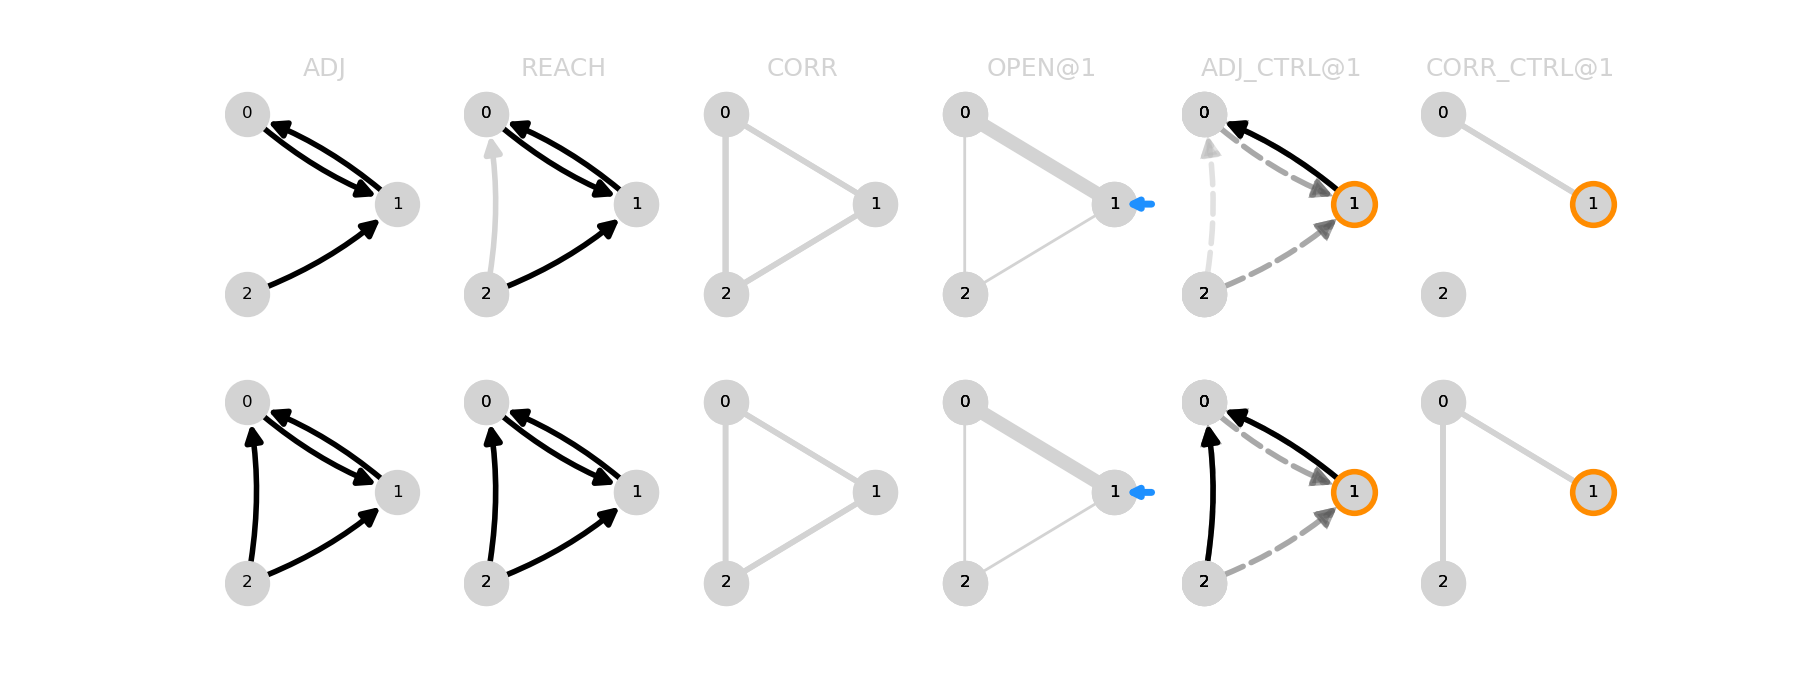
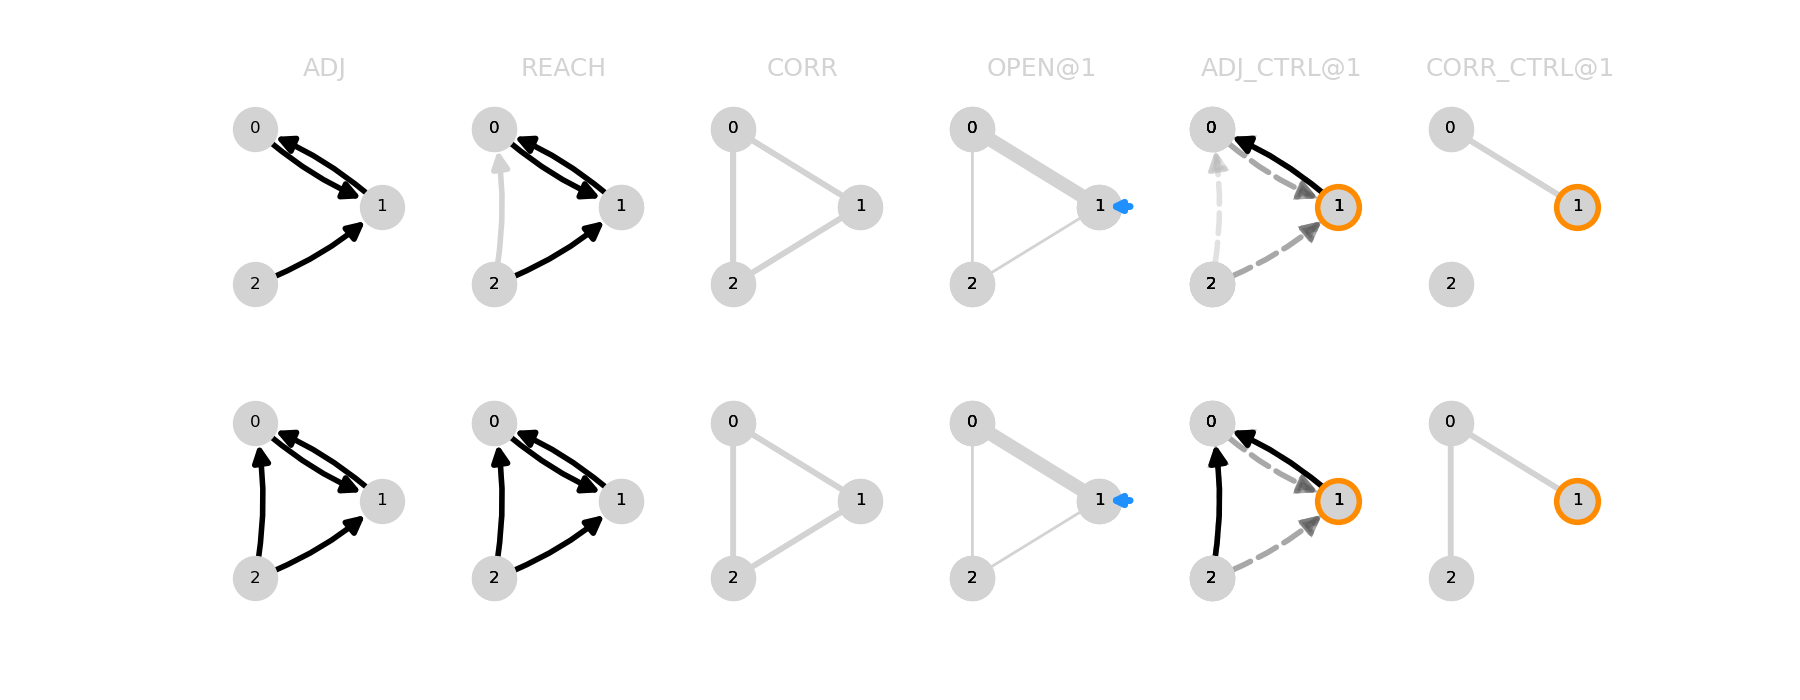
[plot][snapshot] refactored, simplified fig_circuit_walkthrough

diff --git a/code/network_analysis/fig_circuit_walkthrough.py b/code/network_analysis/fig_circuit_walkthrough.py
@@ -13,21 +13,18 @@ import network_analysis_functions as net
 import coreachability_source_classification as coreach
 #%%
 '''
+- [ ] I'm annoyed at how networkx (via matplotlib) handles arrow styles 
+    - can't have dotted arrows without arrowheads 
+    - have to redraw 
+    - proposed solution: look at draw_np_adj, switch to draw_networkx_edges() 
+        - to see if this gives us more control 
+    - proposed solution: switch everything to plotly https://plotly.com/python/network-graphs/
 - [ ] compartmentalize plotting for easier composition
-    - single correlation 
-        draw_correlations(adj_ctrls[i], Corr=corr_ctrls[i],
-            ax=_ax, grey_correlations=True)
-        indicate_ctrl(_ax, pos[i],color='#b4a390')
-    - severed adj 
-        #overlay unmodified & modified adj
-        draw_np_adj(adj,          ax=_ax0, more_options=severed_edge_style)
-        draw_np_adj(adj_ctrls[i], ax=_ax0)
-        indicate_ctrl(_ax0, pos[i])
-        indicate_ctrl(_ax1, pos[i])
-    - weighted correlation (from open-loop)
-    
-- ( ) improve size of OL indication 
-- [ ] pull circuit from egcirc 
+- ( ) ideally this script should expose computing all the derived matrices separately from plotting them 
+- [ ] wrap circuits we want in / pull from `example_circuits.py`
+    - [ ] find and include frequent circuit (curto + motif)
+- [ ] alt method of displaying indirect paths?
+  - https://networkx.org/documentation/stable/reference/algorithms/generated/networkx.algorithms.simple_paths.all_simple_paths.html#networkx.algorithms.simple_paths.all_simple_paths
 
 
 | adj   | reach     | corr    | OL @ mid | CL @ mid |
@@ -39,144 +36,35 @@ A = np.array([[0, .1, 0],
               [1, 0,  0],
               [1, 4,  0]])
               
-
 A0 = np.array([[0, 1, 0],
               [1, 0,  0],
               [0, 1,  0]])
+              
 A1 = np.array([[0, 1, 0],
               [1, 0,  0],
-              [1, 1,  0]])                           
+              [1, 1,  0]])                    
+                     
 A2 = np.array([[0, 1, 0],
               [0, 0,  0],
               [1, 1,  0]])
-# rA = net.reachability(A);
-# rwA = net.reachability_weight(A);
-# corrA = net.binary_correlations(A)
+
 #%%    
 pos = netplot._gen_layout_from_adj(A)
+
 #%%
-fig, ax = plt.subplots(2,6,figsize=(18,7))
-# adj_ctrls = net.each_closed_loop_adj(A) 
-# corr_ctrls = net.each_closed_loop_correlations(A)
-ax = netplot.draw_controlled_adj_correlations(ax, A)
-# fig
-#%%
-
-# adjs = [A0,A1]
-
-from aenum import Flag, auto
-# see https://github.com/awillats/clinc-gen/blob/main/small_circuit_scripts/circuit_functions/run_PID_ctrl.py 
-# for another usage of Flag, auto
-# some discussion of enum vs aenum here: https://stackoverflow.com/questions/60635855/python-enum-flag-with-one-flag-that-is-used-by-some-others
-def strip_trailing_int(str,delim='@'):
-    return int(str.split(delim)[1])
-
-class NetPlotType(Flag):
-    ADJ = auto() 
-    REACH = auto()
-    CORR = auto() 
-    CTRL = auto()
-    OPEN = auto()
-    ADJ_CTRL = ADJ | CTRL
-    CORR_CTRL = CORR | CTRL
-    REACH_CTRL = REACH | CTRL
-    
-    def __init__(self,flag_val):
-        # Flag.__init__(self) #replace with super?
-        # super(NetPlotType, self).__init__()
-        super().__init__()
-        self.intervention_location=None
-    def set_intervention_location(self, loc):
-    
-        self.intervention_location = loc
-    # 
-    def __repr__(self):
-        r = f'{self.name}'
-        if hasattr(self,'intervention_location') and self.intervention_location is not None:
-            r +=f'@{self.intervention_location}'
-        return r
-    def __str__(self):
-        return self.__repr__()
-
-n = NetPlotType(0)
-
-a=NetPlotType.ADJ
-r=NetPlotType.REACH
-a
-r
-ar = a|r
-print(ar)
-
-print(ar & a)
-print(ar & r)
-
-cc=NetPlotType.CORR_CTRL
-print(cc)
-
-        #%%
-def parse_plot_type(plot_str):
-    plot_str = plot_str.lower()
-    # pt = NetPlotType.DEFAULT
-    pt = NetPlotType(0)
-    
-    if 'adj' in plot_str:
-        pt |= NetPlotType.ADJ
-    if 'reach' in plot_str:
-        pt |= NetPlotType.REACH
-    if 'corr' in plot_str:
-        pt |= NetPlotType.CORR
-    if 'ctrl' in plot_str:
-        pt |= NetPlotType.CTRL
-        pt.set_intervention_location(strip_trailing_int(plot_str))
-        
-    if 'open' in plot_str:
-        pt |= NetPlotType.OPEN
-        pt.set_intervention_location(strip_trailing_int(plot_str))
-        
-    return pt
-# ---- 
-
-def plot_adj_by_plot_type(ax, A, plot_type,add_titles=True):
-    grey=True
-    plot_funs = {
-        NetPlotType(0) : lambda adj,ax,intv_loc: adj*2,
-        NetPlotType.ADJ :   lambda adj,ax,intv_loc: netplot.draw_np_adj(adj,ax=ax),
-        NetPlotType.REACH : lambda adj,ax,intv_loc: netplot.draw_reachability(adj,ax=ax),
-        NetPlotType.CORR :  lambda adj,ax,intv_loc: netplot.draw_correlations(adj,ax=ax,grey_correlations=grey),
-        NetPlotType.ADJ_CTRL :  lambda adj,ax,intv_loc: netplot.__draw_ctrl_adj_at_source(adj=adj,ax=ax,intv_loc=intv_loc),
-        NetPlotType.CORR_CTRL :  lambda adj,ax,intv_loc: netplot.__draw_ctrl_correlations_at_source(adj=adj,ax=ax,intv_loc=intv_loc,grey_correlations=grey),
-        # NetPlotType.REACH_CTRL :  lambda adj,ax,intv_loc: netplot.__draw_coreachability_at_source(adj,ax=ax,intv_loc=intv_loc),
-        # NetPlotType.CTRL :  lambda adj,ax,intv_loc: netplot.__draw_coreachability_at_source(adj,ax=ax,intv_loc=intv_loc),
-        NetPlotType.OPEN :  lambda adj,ax,intv_loc: netplot.__draw_coreachability_at_source(adj,ax=ax,intv_loc=intv_loc,grey_correlations=grey),
-    }
-    this_plot_fun = plot_funs.get(plot_type)
-    
-    # print(f'this_plot_fun:{this_plot_fun}\n for {plot_type}')
-    
-    this_plot_fun(A, ax, plot_type.intervention_location)
-    if add_titles:
-        ax.set_title(str(plot_type),color='lightgrey')
-    else:
-        ax.set_title('')
-        
-    # myplot.expand_bounds(ax)
-    # return ax
-#-----
-
+'''
+can specify what you want in the columns 
+( see network_plotting_functions/parse_plot_type() for )
+'''
 cols = ['adj','reach','corr','open@1','adj ctrl@1','corr ctrl@1']
-plot_types = [parse_plot_type(p) for p in cols]
+plot_types = [netplot.parse_plot_type(p) for p in cols]
 As = [A0,A1]
+
 fig,ax = plt.subplots(len(As),len(cols),figsize=(3*len(cols),3.5*len(As)),sharex=True,sharey=True)
 for j,_A in enumerate(As):
     for i,pt in enumerate(plot_types):    
-        plot_adj_by_plot_type(ax[j][i],_A,pt,add_titles=(j==0))
-myplot.expand_bounds(ax[j][i])
+        netplot.plot_adj_by_plot_type(ax[j][i],_A,pt,add_titles=(j==0))
+myplot.expand_bounds(ax[0][0],1.3)
 
 myplot.savefig(f'results/circuit_walkthrough_{len(As)}circuits.png',this_file='/code/fig_circuit_walkthrough.py')        
-fig
-#%%
-fig,ax = plt.subplots(1,3,figsize=(9,3))
-df = coreach.compute_coreachability_tensor(net.reachability(A))
-# ax = netplot.draw_coreachability_by_source(df,ax,node_position=pos,grey_correlations=True)
-# ax = netplot.__draw_coreachability_by_source(A,ax,grey_correlations=True)
 fig

diff --git a/code/network_analysis/network_plotting_functions.py b/code/network_analysis/network_plotting_functions.py
@@ -9,6 +9,7 @@ import matplotlib.pyplot as plt
 from matplotlib.gridspec import GridSpec
 
 import plotting_functions as myplot
+from aenum import Flag,auto
 #%%
 DEFAULT_NET_PLOT_OPTIONS = {
         'node_color': 'lightgrey',
@@ -32,7 +33,6 @@ def draw_weighted_corr(W, ax=None, min_w=0,max_w=10, more_options={},pos_overrid
     options = DEFAULT_NET_PLOT_OPTIONS.copy()
     options.update({'ax':ax,'pos':pos})
     
-        
     options.update({'width':weights,'node_size':100})
     nx.draw(G, **options)
     ax.set_aspect('equal')
@@ -523,9 +523,83 @@ def plot_empirical_corrs(A,Rw,X, r2_pred,r2_empr,n_plot=1000,node_colors=None):
 
 
 #%%
+def strip_trailing_int(str,delim='@'):
+    return int(str.split(delim)[1])
+# from aenum import Flag, auto
 
+# see https://github.com/awillats/clinc-gen/blob/main/small_circuit_scripts/circuit_functions/run_PID_ctrl.py 
+# for another usage of Flag, auto
+# some discussion of enum vs aenum here: https://stackoverflow.com/questions/60635855/python-enum-flag-with-one-flag-that-is-used-by-some-others
 
-
+class NetPlotType(Flag):
+    ADJ = auto() 
+    REACH = auto()
+    CORR = auto() 
+    CTRL = auto()
+    OPEN = auto()
+    ADJ_CTRL = ADJ | CTRL
+    CORR_CTRL = CORR | CTRL
+    REACH_CTRL = REACH | CTRL
+    
+    def __init__(self,flag_val):
+        # Flag.__init__(self) #replace with super?
+        # super(NetPlotType, self).__init__()
+        super().__init__()
+        self.intervention_location=None
+    def set_intervention_location(self, loc):
+    
+        self.intervention_location = loc
+    # 
+    def __repr__(self):
+        r = f'{self.name}'
+        if hasattr(self,'intervention_location') and self.intervention_location is not None:
+            r +=f'@{self.intervention_location}'
+        return r
+    def __str__(self):
+        return self.__repr__()
+        
+def parse_plot_type(plot_str):
+    plot_str = plot_str.lower()
+    pt = NetPlotType(0)
+    '''
+    Note, the resulting plot type can combine ADJ/REACH/CORR with CTRL 
+    - this is achieved by using the OR:| operation with flags
+    '''
+    
+    if 'adj' in plot_str:
+        pt |= NetPlotType.ADJ
+    if 'reach' in plot_str:
+        pt |= NetPlotType.REACH
+    if 'corr' in plot_str:
+        pt |= NetPlotType.CORR
+    if 'ctrl' in plot_str:
+        pt |= NetPlotType.CTRL
+        pt.set_intervention_location(strip_trailing_int(plot_str))
+    if 'open' in plot_str:
+        pt |= NetPlotType.OPEN
+        pt.set_intervention_location(strip_trailing_int(plot_str))        
+    return pt
+    
+def plot_adj_by_plot_type(ax, A, plot_type,add_titles=True):
+    grey=True
+    plot_funs = {
+        NetPlotType(0):         lambda adj,ax,intv_loc: adj*2,
+        NetPlotType.ADJ:        lambda adj,ax,intv_loc: draw_np_adj(adj,ax=ax),
+        NetPlotType.REACH:      lambda adj,ax,intv_loc: draw_reachability(adj,ax=ax),
+        NetPlotType.CORR:       lambda adj,ax,intv_loc: draw_correlations(adj,ax=ax,grey_correlations=grey),
+        NetPlotType.ADJ_CTRL:   lambda adj,ax,intv_loc: __draw_ctrl_adj_at_source(adj=adj,ax=ax,intv_loc=intv_loc),
+        NetPlotType.CORR_CTRL:  lambda adj,ax,intv_loc: __draw_ctrl_correlations_at_source(adj=adj,ax=ax,intv_loc=intv_loc,grey_correlations=grey),
+        # NetPlotType.REACH_CTRL :  lambda adj,ax,intv_loc: netplot.__draw_coreachability_at_source(adj,ax=ax,intv_loc=intv_loc),
+        # NetPlotType.CTRL :  lambda adj,ax,intv_loc: netplot.__draw_coreachability_at_source(adj,ax=ax,intv_loc=intv_loc),
+        NetPlotType.OPEN:       lambda adj,ax,intv_loc: __draw_coreachability_at_source(adj,ax=ax,intv_loc=intv_loc,grey_correlations=grey),
+    }
+    this_plot_fun = plot_funs.get(plot_type)
+    
+    this_plot_fun(A, ax, plot_type.intervention_location)
+    if add_titles:
+        ax.set_title(str(plot_type),color='lightgrey')
+    else:
+        ax.set_title('')
 #%%
 # 1-lag correlation-plot
 # if nt<1e5:

diff --git a/code/network_analysis/plotting_functions.py b/code/network_analysis/plotting_functions.py
@@ -28,8 +28,8 @@ def expand_bounds(ax,expansion_factor=1.1):
     - useful in conjunction with networkx+matplotlib
     - which sometimes results in axes clipping the edge of nodes
     '''
-    ax.set_xlim([1.1*x for x in ax.get_xlim()])
-    ax.set_ylim([1.1*y for y in ax.get_ylim()])
+    ax.set_xlim([expansion_factor*x for x in ax.get_xlim()])
+    ax.set_ylim([expansion_factor*y for y in ax.get_ylim()])
     return ax
     
 def expand_bounds_each(ax, expansion_factor=None):

diff --git a/section_content/background_id_demo.md b/section_content/background_id_demo.md
@@ -5,16 +5,16 @@
 ![](/code/network_analysis/results/circuit_walkthrough_2circuits.png "generated by /code/fig_circuit_walkthrough.py")
 ![](/code/network_analysis/results/circuit_walkthrough_3circuits.png "generated by /code/fig_circuit_walkthrough.py")
 </details>
+
 ---
 
 <details><summary>↪to do items</summary>
-- [ ] find and include frequent circuit (curto + motif)
 
+- [ ] find and include frequent circuit (curto + motif)
 - [ ] wrap circuits we want in `example_circuits.py`
 - [ ] alt method of displaying indirect paths?
   - https://networkx.org/documentation/stable/reference/algorithms/generated/networkx.algorithms.simple_paths.all_simple_paths.html#networkx.algorithms.simple_paths.all_simple_paths
 </details>
-
 
 <details><summary> ↪see also</summary>
 
@@ -45,9 +45,6 @@ more inspiration:
 **Figure 12: Closed-loop control allows for two circuit hypotheses to be distinguished.** Two hypothesized circuits for the relationships between pyramidal (Pyr, excitatory), parvalbumin-positive (PV, inhibitory), and somatostain-expressing (Som, inhibitory) cells are shown in the two rows. Dashed lines in the right column represent connections whose effects are compensated for through closed-loop control of the Pyr node. By measuring correlations between recorded regions during closed-loop control it is possible to distinguish which hypothesized circuit better matches the data. Notably in the open-loop intervention, activity in all regions is correlated for both hypothesized circuits leading to ambiguity.
 </details>
 
-
-
----
 <details><summary>↪more notes</summary>
 
 probably want 
